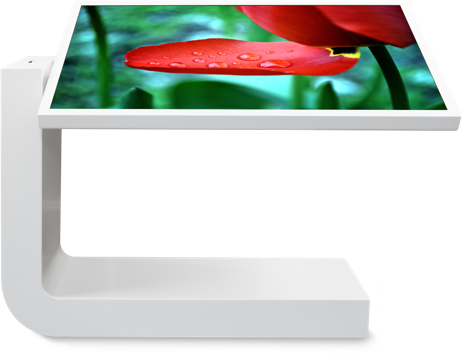
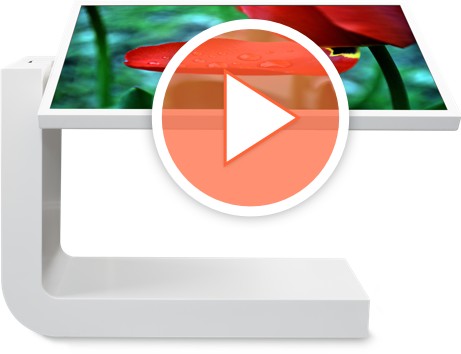
add play button to nova header image

Changed region(s): [[0.3037, 0.0311, 0.7896, 0.6215]]

diff --git a/_includes/components/header-skew.html b/_includes/components/header-skew.html
@@ -4,7 +4,21 @@
       {% if include.title or include.subtitle or include.primarytext or include.secondarytext %}
         <div class="header-image-wrapper">
       {% endif %}
-        {% include components/image.html image=include.image class="header-image"%}
+      {% if include.imagelink %}
+        <a
+          ga-on="click"
+          ga-event-category={{include.gacategory}}
+          ga-event-action={{include.primarygaaction}}
+          {% if include.primarylity %}
+            data-lity data-lity-target={{include.primarylink[page.lang]}}
+          {% else %}
+            href={{include.imagelink[page.lang]}}
+          {% endif %}>
+      {% endif %}
+          {% include components/image.html image=include.image class="header-image"%}
+      {% if include.imagelink %}
+        </a>
+      {% endif %}
       {% if include.title or include.subtitle or include.primarytext or include.secondarytext %}
         </div>
           <div>

diff --git a/_includes/pages/hardware/nova.html b/_includes/pages/hardware/nova.html
@@ -1,5 +1,6 @@
 {% include components/header-skew.html
   image=site.data.pages.hardware.nova.header.image
+  imagelink=site.data.pages.hardware.nova.header.imagelink
   title=site.data.pages.hardware.nova.header.title
   subtitle=site.data.pages.hardware.nova.header.subtitle
   gacategory="hardwareIntro"

diff --git a/_includes/pages/home.html b/_includes/pages/home.html
@@ -3,6 +3,7 @@
 
 {% include components/header-skew.html
   image=site.data.pages.home.header.image
+  imagelink=site.data.pages.home.header.imagelink
   title=site.data.pages.home.header.title
   subtitle=site.data.pages.home.header.subtitle
   gacategory="mainIntro"

diff --git a/css/base.scss b/css/base.scss
@@ -173,6 +173,10 @@ img {
 
 a {
   color: $touchlay-blue;
+
+  &:hover {
+    cursor: pointer;
+  }
 }
 
 /* Navigation */
